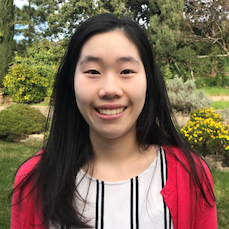
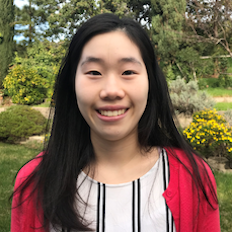
Revamped homepage

diff --git a/index.html b/index.html
@@ -2,13 +2,31 @@
 layout: default
 title: Alice Yeh
 ---
-<div class="homepage">
+<div class="homepage-info">
     <div class="photo">
-        <img src="/assets/me.png">
+        <img id="me" src="/assets/me.png">
     </div>
     <div class="blurb" class="jumbotron">
         <h1 class="display-3">Hi, I'm Alice!</h1>
-        <p class="lead">I'm a high school senior at BASIS Independent Silicon Valley interested in exploring the interdisciplinary
-            applications of computer science. Check out <a href="/projects">what I've done</a> and <a href="/blog">what I've been up to lately</a>.</p>
+        <p class="lead">I'm a high school senior at BASIS Independent Silicon Valley in the San Francisco Bay Area. I'm interested in exploring the interdisciplinary
+            applications of computer science and creating impactful projects through collaboration. Check out <a href="/projects">what I've done</a> and <a href="/blog">what I've been up to lately</a>.</p>
+    </div>
+</div>
+
+<div class="info-sections">
+    <div class="section1">
+        <h1 class="section-header">&#128204 Currently, I'm...</h1>
+        <ul id="current">
+            <li class="current-items">Co-founding and developing a startup (details to come soon!)</li>
+            <li class="current-items">Working on my <a class="current-items" href="https://siliconvalley.basisindependent.com/author/alicey/">senior project</a>, where I am developing code to analyze and explain nanopore-based sequencing limitations</li>
+            <li class="current-items">Attending <em>virtual</em> tech conferences, hackathons, and workshops</li>
+            <li class="current-items">Maintaining and creating challenges for our Science Olympiad club's weekly challenges <a class="current-items" href="https://sochallenges.github.io/">website</a></li>
+            <li class="current-items">Developing and expanding the curriculum for my <a class="current-items" href="https://events.aclibrary.org/event/5726589">Kickboxing and Self Defense Program</a></li>
+        </ul>
+        <p class="current-items lets-talk">Last updated: 3/25/2020</a></p>
+    </div>
+    <div class="section2">
+        <h1 class="section-header">&#128587 Let's collaborate!</h1>
+        <p class="current-items lets-talk">I'm always excited to talk to and collaborate with new people and hear from different perspectives! Feel free to reach out via <a class="current-items" href="mailto:aliceyeh12@gmail.com">email</a>.</p>
     </div>
 </div>

diff --git a/css/styles.css b/css/styles.css
@@ -10,17 +10,20 @@ body {
 }
 
 .container {
-    width: 90%;
+    width: 100%;
+    margin-bottom: 50px;
 }
 
 .navbar-custom {
-    background-color: rgb(136, 183, 236);
+    background-color: white;
 }
 
 .navbar-custom .navbar-text {
-    color: white;
+    color: rgb(136, 183, 236);
     opacity: 100%;
-    margin-right: 15px;
+    margin-right: 20px;
+    margin-top: 10px;
+    font-size: 22px;
 }
 
 nav ul, footer ul {
@@ -36,9 +39,12 @@ nav ul li, footer ul li {
 
 .name {
     margin-left: 15px;
-    color: white;
-    font-size: 48px;
+    margin-top: 10px;
+    color: black;
+    font-size: 52px;
     font-weight: normal;
+    text-decoration: underline;
+    text-decoration-color: rgb(136, 183, 236);
 }
 
 a {
@@ -58,15 +64,32 @@ footer {
     font-size: .8em;
 }
 
+#made-by {
+    float: right;
+    font-weight: normal;
+}
+
 /* Home page specific */
 
-.homepage {
+.homepage-info {
     display: inline-block;
+    margin-top: 40px;
+    margin-bottom: 50px;
+    padding: 40px;
+    padding-top: 0px;
+    padding-right: 20px;
+    box-shadow: 0 4px 8px 0 rgba(0, 0, 0, 0.2), 0 6px 20px 0 rgba(0, 0, 0, 0.19);
+    border-radius: 10px;
 }
 
 .photo {
-    margin-top: 50px;
+    margin-left: 5px;
+    margin-top: 52px;
     float: left;
+}
+
+#me {
+    border-radius: 120px;
 }
 
 .blurb {
@@ -75,15 +98,51 @@ footer {
 }
 
 .display-3 {
-    padding-top: 50px;
-    padding-bottom: 30px;
+    margin-left: 19px;
+    padding-top: 40px;
+    padding-bottom: 20px;
 }
 
 .lead {
+    margin-left: 23px;
     font-size: 24px;
 }
 
+.info-sections {
+    margin-left: 50px;
+    margin-right: 50px;
+}
+
+.section-header {
+    font-size: 36px;
+}
+
+#current {
+    margin-left: 25px;
+    margin-top: 20px;
+}
+
+.current-items {
+    font-size: 22px;
+    margin-bottom: 5px;
+    font-weight: normal;
+}
+
+.lets-talk {
+    margin-left: 45px;
+    margin-top: 20px;
+}
+
+.section2 {
+    margin-top: 30px;
+}
+
 /* Projects specific */
+
+.page-header {
+    text-decoration: underline;
+    text-decoration-color: rgb(136, 183, 236);
+}
 
 .proj-card {
     max-width: none;

diff --git a/_layouts/default.html b/_layouts/default.html
@@ -36,6 +36,7 @@
                     <li><a href="mailto:aliceyeh12@gmail.com">Email</a></li>
                     <li><a href="https://github.com/AliceYeh12">GitHub</a></li>
                     <li><a href="https://www.linkedin.com/in/aliceyeh12/">LinkedIn</a></li>
+                    <li id="made-by">Made with lots of &#129377 by Alice Yeh.</li>
                 </ul>
             </footer>
 		</body>

diff --git a/README.md b/README.md
@@ -1,3 +1,1 @@
-This is the repository for my personal website. If you wish to use the code, please let me know, as much of it is my own work.
-
-This website loosely follows [this tutorial](http://jmcglone.com/guides/github-pages/).
+This is the repository for my personal website. If you wish to use the code, please let me know.
